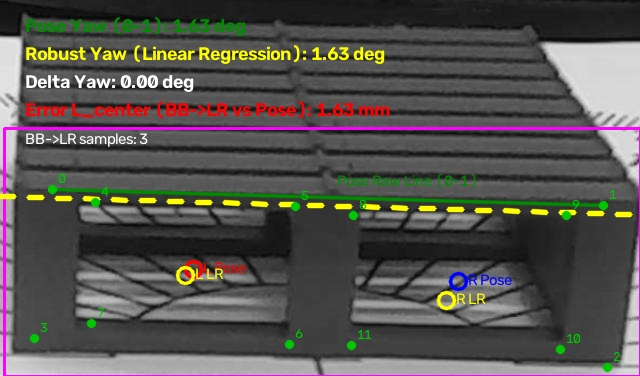
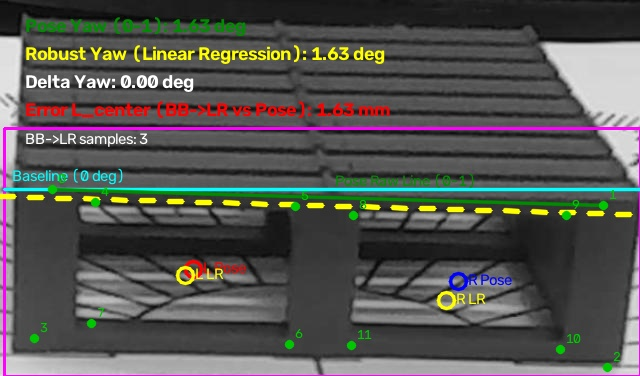
Add zero degree yaw baseline

Changed region(s): [[0.0, 0.4388, 1.0, 0.5266]]

diff --git a/4_linear_regression_fit.py b/4_linear_regression_fit.py
@@ -10,12 +10,13 @@ IMAGE_DIR = Path(r"D:\TANGCUONGANH\val\images")
 OUTPUT_DIR = Path(__file__).resolve().parent
 CONFIDENCE = 0.5
 PALLET_WIDTH_MM = 90.0
-TOP_EDGE_KEYPOINTS = [0, 4, 5, 8, 9, 1]
+TOP_EDGE_KEYPOINTS = [0, 1, 4, 5, 8, 9]
 LEFT_CENTER_KEYPOINTS = [4, 5, 6, 7]
 RIGHT_CENTER_KEYPOINTS = [8, 9, 10, 11]
 
 # OpenCV colors are BGR.
 YELLOW = (0, 255, 255)
+BASELINE = (255, 255, 0)
 RED = (0, 0, 255)
 BLUE = (255, 0, 0)
 GREEN = (0, 200, 0)
@@ -140,6 +141,25 @@ def draw_result(image, detection, predicted_centers, sample_index, center_model,
     raw_yaw = float(
         np.degrees(np.arctan2(point_right[1] - point_left[1], point_right[0] - point_left[0]))
     )
+    # The horizontal baseline is the 0-degree reference for both angle calculations.
+    baseline_start = np.array([x_min, point_left[1]], dtype=np.float32)
+    baseline_end = np.array([x_max, point_left[1]], dtype=np.float32)
+    cv2.line(
+        image,
+        tuple(np.round(baseline_start).astype(int)),
+        tuple(np.round(baseline_end).astype(int)),
+        BASELINE,
+        2,
+        cv2.LINE_AA,
+    )
+    draw_text(
+        image,
+        "Baseline (0 deg)",
+        baseline_start + np.array([8.0, -8.0]),
+        BASELINE,
+        0.5,
+        1,
+    )
     cv2.line(
         image,
         tuple(np.round(point_left).astype(int)),
@@ -148,9 +168,14 @@ def draw_result(image, detection, predicted_centers, sample_index, center_model,
         2,
         cv2.LINE_AA,
     )
-    raw_line_label_position = (point_left + point_right) / 2.0 + np.array([10.0, -10.0])
-    draw_text(image, "Pose Raw Line (0-1)", raw_line_label_position, POSE_GREEN, 0.5, 1)
-
+    draw_text(
+        image,
+        "Pose Raw Line (0-1)",
+        (point_left + point_right) / 2.0 + np.array([8.0, -10.0]),
+        POSE_GREEN,
+        0.5,
+        1,
+    )
     robust_yaw = None
     if yaw_result is not None:
         robust_yaw, slope, intercept = yaw_result
